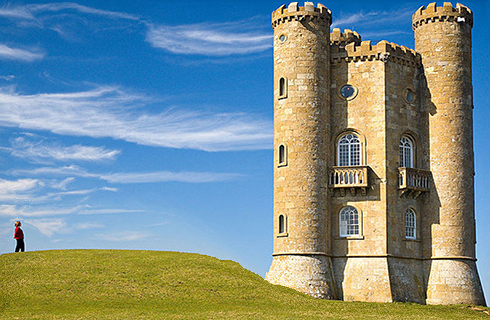
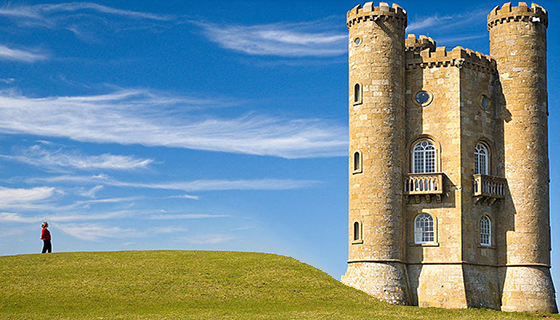
Small fixes and notes

diff --git a/SeamCarving/main.cpp b/SeamCarving/main.cpp
@@ -3,12 +3,12 @@
 
 int main() 
 {
-	string name = "Pictures/tower";
+	string name = "Pictures/beach";
 	string ext1 = "_carved";
 	string ext2 = "_energy";
 	string jpg = ".jpg";
 	string png = ".png";
-	string type = png;
+	string type = jpg;
 
 	Mat_<Vec3b> image = imread(name + type);
 
@@ -27,47 +27,44 @@ int main()
 	//s.SaveEnergy(name + ext1 + ext2 + type);
 
 
-	int horizontal = 10;
+	int horizontal = 250;
 	int vertical = 350;
-	//for (int i = 0; i < horizontal; i++)
-	//{
-	//	vector<int> seam = s.FindHorizontalSeam();
-	//	s.RemoveHorizontalSeam(seam);
-	//}
+	for (int i = 0; i < horizontal; i++)
+	{
+		vector<int> seam = s.FindHorizontalSeam();
+		s.ShowHorizontalSeam(seam);
+		s.RemoveHorizontalSeam(seam);
+		waitKey(1);
+	}
 
-	//for (int i = 0; i < vertical; i++)
+	for (int i = 0; i < vertical; i++)
+	{
+		vector<int> seam2 = s.FindVerticalSeam();
+		s.ShowVerticalSeam(seam2);
+		s.RemoveVerticalSeam(seam2);
+		waitKey(1);
+	}
+
+	//int i = 300;
+	//while (waitKey(1) != 27 && i > 0)
 	//{
 	//	vector<int> seam2 = s.FindVerticalSeam();
+	//	s.ShowVerticalSeam(seam2);
 	//	s.RemoveVerticalSeam(seam2);
+	//	waitKey(1);
+
+	//	vector<int> seam = s.FindHorizontalSeam();
+	//	s.ShowHorizontalSeam(seam);
+	//	s.RemoveHorizontalSeam(seam);
+	//	waitKey(1);
+
+	//	i--;
 	//}
-
-	/*while (waitKey(20) != 27)*/
-	while (waitKey(20) != 27)
-	{
-		//if (vertical > 0)
-		//{
-			vector<int> seam2 = s.FindVerticalSeam();
-			s.ShowVerticalSeam(seam2);
-			s.RemoveVerticalSeam(seam2);
-			waitKey(20);
-			vertical--;
-		//}
-
-		//if (horizontal)
-		//{
-			//vector<int> seam = s.FindHorizontalSeam();
-			//s.ShowHorizontalSeam(seam);
-			//s.RemoveHorizontalSeam(seam);
-			//waitKey(20);
-			//horizontal--;
-		//}
-	}
 
 	s.ShowImage();
 
 	while (waitKey(20) != 27);
 
-	//s.SaveEnergy(name + ext1 + ext2 + type);
 	s.SaveImage(name + ext1 + type);
 
 	image.release();
